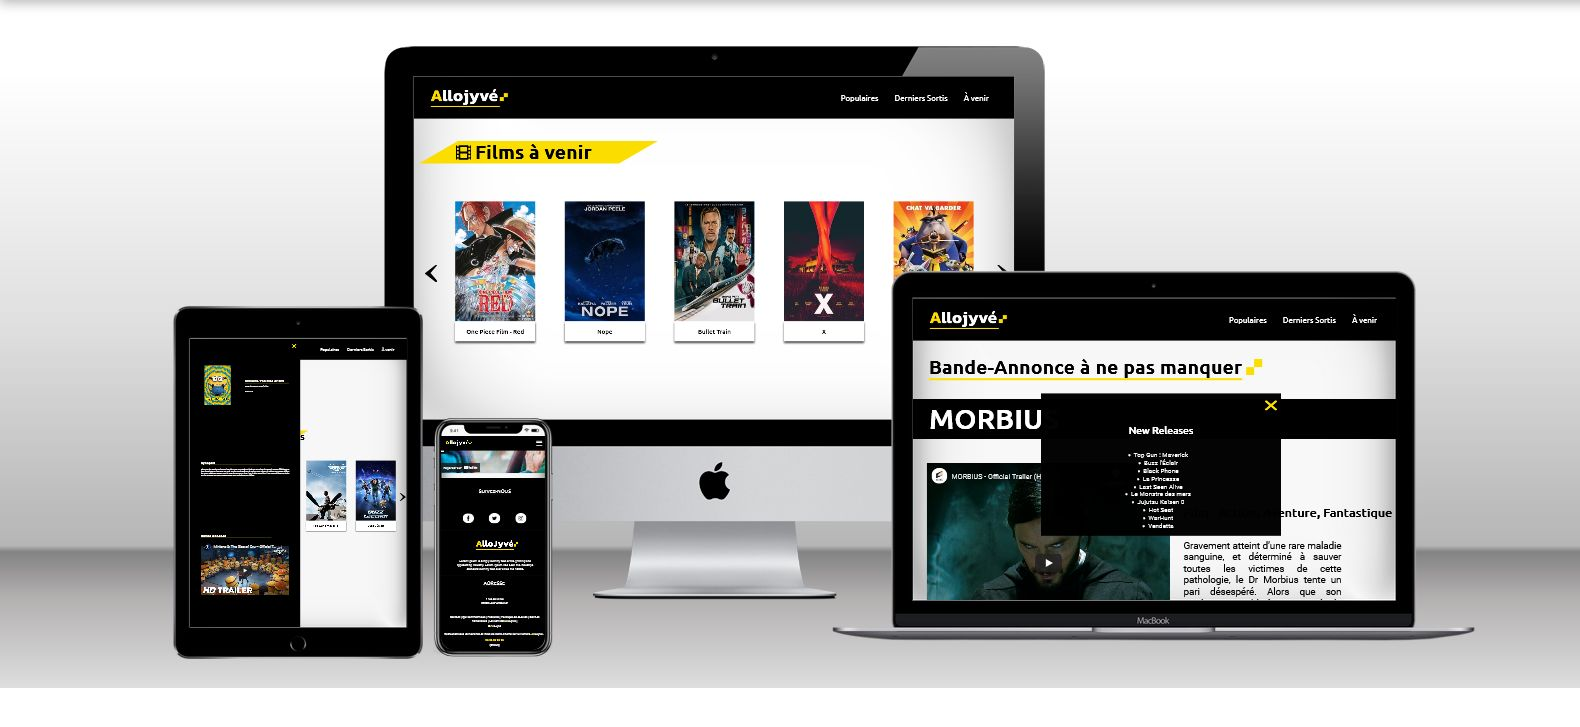
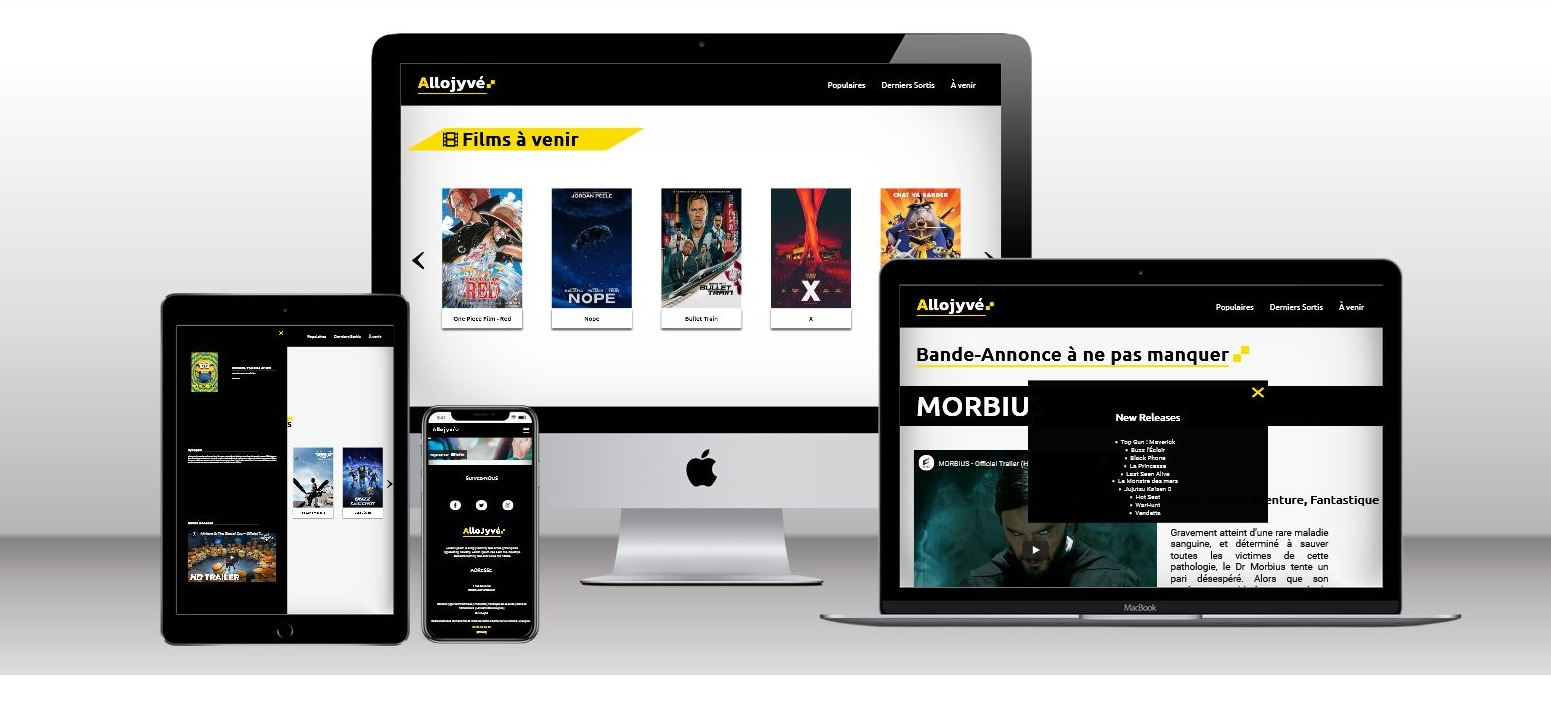
rajout screen carousel + reglage pas fini

Changed region(s): [[0.0, 0.0, 1.0, 0.9244]]

diff --git a/index.html b/index.html
@@ -177,34 +177,34 @@
             <div class="container">
                 <h1 class="main-heading"></h1>
                     <div class="content">
-                    <!-- The content which is placed at the center of the carousel -->
+                  
                     <div class="carousel-content">
                         <h1 class="carousel-heading">
                             Projets
                         </h1>
-                        <!-- <h3>A computer science portal for geeks</h3> -->
+                         <h3></h3>
                     </div>
                     <div class="slideshow">
-                        <!-- carousel wrapper which contains all images -->
                         <div class="slideshow-wrapper">
                             <div class="slide">
-                                <img class="slide-img" src= "./assets/img/">
+                                <img class="slide-img" src= "./assets/img/allojyveScreen.jpg">
+                              </div>
+                              <div class="slide">
+                                <img class="slide-img" src= "./assets/img/techNewsScreen.png">
+                              </div>
+                            <div class="slide">
+                                <img class="slide-img" src= "./assets/img/creativeScreen.jpg">
                             </div>
                             <div class="slide">
-                                <img class="slide-img" src= "./assets/img/maquetteScreen1.png">
+                                <img class="slide-img" src= "./assets/img/maquetteScreen.png">
                             </div>
                             <div class="slide">
-                                <img class="slide-img" src= "./assets/img/capgemenScreen.jpg">
+                                <img class="slide-img" src= "./assets/img/capgementScreen.jpg">
                             </div>
                             <div class="slide">
                                 <img class="slide-img" src= "./assets/img/popcodeScreen.jpg">
                             </div>
-                            <div class="slide">
-                              <img class="slide-img" src= "./assets/img/allojyveScreen.jpg">
-                            </div>
-                            <div class="slide">
-                              <img class="slide-img" src= "./assets/img/popcodeScreen.jpg">
-                            </div>
+                            
                             <!-- <div class="slide">
                               <img class="slide-img" src= "./IMG/allojyveScreen.jpg">
                             </div> -->
@@ -219,7 +219,7 @@
                     <button class="slide-btn slide-btn-4"></button>
                     <button class="slide-btn slide-btn-5"></button>
                     <button class="slide-btn slide-btn-6"></button>
-                    <button class="slide-btn slide-btn-7"></button>
+                    <!-- <button class="slide-btn slide-btn-7"></button> -->
                 </div>
             </div>
     </section>

diff --git a/assets/css/style.css b/assets/css/style.css
@@ -157,30 +157,52 @@ h1{font-size: 5.625rem;font-weight: 400; color: #ffff;}
 /* @keyframes are used to provide amations We make these settings for 4 image carousel. Make modification accourding to your needs. */
 @keyframes slideshow {
   0% {left: 0;}
-  10% {left: 0;}
+  5% {left: 0;}
+  10% {left: -100%;}
   15% {left: -100%;}
-  25% {left: -100%;}
-  30% {left: -200%;}
-  40% {left: -200%;}
-  45% {left: -300%;}
-  55% {left: -300%;}
-  60% {left: -200%;}
-  70% {left: -200%;}
-  75% {left: -100%;}
-  85% {left: -100%;}
-  90% {left: 0%;}}
+  20% {left: -200%;}
+  25% {left: -200%;}
+  30% {left: -300%;}
+  35% {left: -300%;}
+  40% {left: -400%;}
+  45% {left: -400%;}
+  50% {left: -500%;}
+  55% {left: -500%;}
+  60% {right: -400%;}
+  65% {right: -400%;}
+  70% {right: -300%;}
+  75% {right: -200%;}
+  80% {right: -200%;}
+  85% {right: -100%;}
+  90% {right: -100%;}
+100%{ right: 0%;}
+}
+
+
+
+
+
+
 /* End of slideshow stylings *//* Carousel control buttons stylings */
 .slide-btn { width: 100%; background-color:#AEE68A; border-radius: 50%;border: .2rem solid  #6CC431;
   width: 1.2rem;height: 1.2rem;outline: none;cursor: pointer;margin-top: 20px;margin-left: -125px; position: absolute;transform: translateX(-50%);z-index: 70;}
   /* Stylings for positioning the buttons at the bottom of the carousel */
  /* As we provide position as absolute,the buttons places one over the other.So, we have to place them individuallyat their correct positions. */
-.slide-btn-1 {left: 45%;}.slide-btn-2 {left: 50%;}.slide-btn-3 {left: 55%;}.slide-btn-4 {left: 60%;}
-.slide-btn-5 {left: 65%;}.slide-btn-6 {left: 70%;}.slide-btn-7 {left: 75%;}
+.slide-btn-1 {left: 45%;}
+.slide-btn-2 {left: 50%;}
+.slide-btn-3 {left: 55%;}
+.slide-btn-4 {left: 60%;}
+.slide-btn-5 {left: 65%;}
+.slide-btn-6 {left: 70%;}
+.slide-btn-7 {left: 75%;}
 /* .boxSlide-btn{height: 15vh; width: 100%;display: flex;justify-content: center;} */
 /* When we focus on the particular button,the animation stops to that particular image to which the button is associated. */
-.slide-btn-1:focus~.slideshow-wrapper {animation: none;left: 0;}.slide-btn-2:focus~.slideshow-wrapper {animation: none;left: -100%;}
-.slide-btn-3:focus~.slideshow-wrapper {animation: none; left:-200%;}.slide-btn-4:focus~.slideshow-wrapper {animation: none;left: -300%;}
-.slide-btn-5:focus~.slideshow-wrapper {animation: none;left: -400%;}.slide-btn-6:focus~.slideshow-wrapper {animation: none;left: -500%;}
+.slide-btn-1:focus~.slideshow-wrapper {animation: none;left: 0;}
+.slide-btn-2:focus~.slideshow-wrapper {animation: none;left: -100%;}
+.slide-btn-3:focus~.slideshow-wrapper {animation: none; left:-200%;}
+.slide-btn-4:focus~.slideshow-wrapper {animation: none;left: -300%;}
+.slide-btn-5:focus~.slideshow-wrapper {animation: none;left: -400%;}
+.slide-btn-6:focus~.slideshow-wrapper {animation: none;left: -500%;}
 /* When we focus on the button, the background color changes */
 .slide-btn:focus {background-color: #6CC431;}
 /* End of carousel control buttons stylings */

diff --git a/assets/js/app.js b/assets/js/app.js
@@ -51,27 +51,27 @@ document.addEventListener('click', ()=>{
  	}
    };
   //////////////////////////////////////////////////////////////////////
-  window.addEventListener("scroll", (event) => {
+//   window.addEventListener("scroll", (event) => {
 
-    //Récupération de la hauteur de l'ecran
-    let viewport_height = window.innerHeight;
+//     //Récupération de la hauteur de l'ecran
+//     let viewport_height = window.innerHeight;
 
-    //Recupération des informations de position des éléments
-    let nav = document.querySelector("#nav").getBoundingClientRect();
-    let header = document.querySelector("#header").getBoundingClientRect();
-    let propos = document.querySelector("#aPropos").getBoundingClientRect();
-    let animationLamp = document.querySelector("#comptencesDev").getBoundingClientRect();
+//     //Recupération des informations de position des éléments
+//     let nav = document.querySelector("#nav").getBoundingClientRect();
+//     let header = document.querySelector("#header").getBoundingClientRect();
+//     let propos = document.querySelector("#aPropos").getBoundingClientRect();
+//     let animationLamp = document.querySelector("#comptencesDev").getBoundingClientRect();
           
-    console.log(animation);
+//     console.log(animation);
 
-    //Déclanchement de l'action quand l'élément arrive à une certaine position dans l'écran
-    if (animationLamp.y <= viewport_height / 4) {
-        document.querySelector('.animation').keyframe = " moveLamp";
-    }
+//     //Déclanchement de l'action quand l'élément arrive à une certaine position dans l'écran
+//     if (animationLamp.y <= viewport_height / 4) {
+//         document.querySelector('.animation').keyframe = " moveLamp";
+//     }
 
     // console.log(positionDivOne);
 
-});
+// });
 // var slideIndex = 1;
 // showSlides(slideIndex);
 
@@ -85,8 +85,8 @@ document.addEventListener('click', ()=>{
 
 // function showSlides(n) {
 //   var i;
-//   var slides = document.getElementsByClassName("mySlides");
-//   var dots = document.getElementsByClassName("dot");
+//   var slides = document.getElementsByClassName("slideshw");
+//   var dots = document.getElementsByClassName("slide-btn");
 //   if (n > slides.length) {slideIndex = 1}
 //     if (n < 1) {slideIndex = slides.length}
 //     for (i = 0; i < slides.length; i++) {
